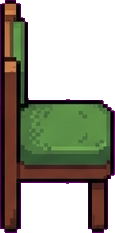
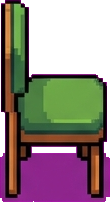
feat(office): fix chair inward facing, POI seat bindings, 2.5D legged furniture, decor props, and asset workflow guide

diff --git a/apps/web/src/features/office/components/officeAssetRegistry.ts b/apps/web/src/features/office/components/officeAssetRegistry.ts
@@ -19,6 +19,9 @@ import chairCafeSide from "../../../../../../assets/game/processed/core-furnitur
 import chairCafeDown from "../../../../../../assets/game/processed/core-furniture-c-v2/chair.cafe.down.png";
 import tvWall from "../../../../../../assets/game/processed/core-furniture-c-v2/tv.wall.png";
 import bookshelfMagazine from "../../../../../../assets/game/processed/core-furniture-c-v2/bookshelf.magazine.png";
+import lampFloor from "../../../../../../assets/game/processed/core-furniture-c-v2/lamp.floor.png";
+import artWall from "../../../../../../assets/game/processed/core-furniture-c-v2/art.wall.png";
+import plantPotted from "../../../../../../assets/game/processed/core-furniture-c-v2/plant.potted.png";
 import binWaste from "../../../../../../assets/game/processed/decor-mechanical-c-v1/bin.waste.png";
 import boxParcel from "../../../../../../assets/game/processed/decor-mechanical-c-v1/box.parcel.png";
 import clockWall from "../../../../../../assets/game/processed/decor-mechanical-c-v1/clock.wall.png";
@@ -106,6 +109,9 @@ const assetFiles: Record<string, string> = {
   "chair.cafe.down": chairCafeDown,
   "tv.wall": tvWall,
   "bookshelf.magazine": bookshelfMagazine,
+  "lamp.floor": lampFloor,
+  "art.wall": artWall,
+  "plant.potted": plantPotted,
   "pet-bed.round": petBed,
   "sofa.sectional": sectionalSofa,
   "stool.lounge": stoolLounge,

diff --git a/docs/art/PIXEL_ASSET_WORKFLOW_GUIDE.md b/docs/art/PIXEL_ASSET_WORKFLOW_GUIDE.md
@@ -1,0 +1,133 @@
+# 🎨 2.5D Pixel Art Furniture & Asset Workflow Guide
+
+This document serves as the official design specification and procedural guide for creating, generating, extracting, registering, and placing 2.5D pixel-art environment assets in the Office Canvas system.
+
+---
+
+## 📐 1. Grid & Asset Geometry Standard
+
+All environment assets are aligned to a **32px Integer Tile Grid**.
+
+### Geometry Properties
+- **`renderBox`**: Image rendering dimensions in tile units `{ width, height }`.
+- **`footprint`**: Collision box on the floor `{ width, depth }`.
+  > **Key Rule**: `footprint` represents floor contact area only. Tall objects (e.g. 1x3 server rack or 2x3 tall plant) have a small footprint on the floor (`1x1`), but a tall `renderBox` (`1x3`) so characters can walk behind them without pathing collision.
+- **`anchor`**: Positioning alignment:
+  - `"bottom-center"`: Used for chairs, plants, standing equipment. Transforms by `translate(-50%, -100%)`.
+  - `"center"`: Used for tables, desks, rugs, sectional sofas. Transforms by `translate(-50%, -50%)`.
+  - `"wall-top"`: Used for wall TVs, clocks, exit signs, wall extinguishers.
+
+---
+
+## 🎨 2. AI Image Prompting & Style Guide (Concept C - Warm Studio)
+
+When generating new 2.5D pixel art assets via `generate_image`, always adhere to these rules:
+
+### Visual Style Rules
+1. **2.5D Perspective with Legs & Shadows**:
+   - Tables and chairs must **NOT** look like flat slabs or 2D stickers.
+   - Prompts must explicitly request **"visible 4 wooden legs under table, 2.5D top-down perspective, under-table floor shadow, warm oak wood texture"**.
+2. **Color Palette**:
+   - Primary Wood: Warm Oak (#C89D66 / #B98258).
+   - Cushions / Fabrics: Forest Green (#395C44 / #4E7359).
+   - Metal / Tech: Dark Graphite (#2D493F / #1E2E28).
+3. **Background**:
+   - Uniform solid magenta background (`#FF00FF` / RGB `[255, 0, 255]`) for clean alpha keying.
+
+### Example Prompt Template
+```
+A clean 4x4 asset sheet of 2D top-down 16-bit pixel art office furniture for Concept C warm studio theme on a solid uniform magenta background (#FF00FF). Top-down 2.5D perspective. High quality pixel art with clean edges, warm wooden tones, visible wooden legs under tables, and subtle floor shadows.
+Row 1: A round wooden cafe table with 4 visible wooden legs (2x2 tiles), a low rectangular wooden coffee table with 4 legs (3x2 tiles).
+Row 2: Green cushioned wooden cafe chair facing up, side, down (1x2 tiles).
+Row 3: Wall mounted flatscreen TV (3x2 tiles), low magazine bookshelf (2x2 tiles), standing floor lamp (1x3 tiles).
+No cast shadows outside items, generous empty padding between items, crisp outlines, no text or grid lines.
+```
+
+---
+
+## 🛠 3. Extraction & Processing Pipeline
+
+Do not rely on naive fixed-cell slicing (which cuts objects spanning across cell boundaries). Use **Connected Blob Segmentation (`ndimage.label`)**:
+
+### Python Extraction Script Pattern
+```python
+import os, json
+from PIL import Image
+import numpy as np
+from scipy import ndimage
+
+img = Image.open("raw_generated_sheet.png").convert("RGBA")
+arr = np.array(img)
+
+# 1. Mask Chroma-Key Magenta Background
+r, g, b, a = arr[:,:,0], arr[:,:,1], arr[:,:,2], arr[:,:,3]
+bg_mask = (r > 165) & (b > 165) & (g < 125)
+arr[bg_mask, 3] = 0
+
+# 2. Connected Component Segmentation
+fg_mask = ~bg_mask
+labeled, num_features = ndimage.label(fg_mask)
+
+# 3. Crop Tight Bounding Box per Blob
+def save_tight_blob(blob_id, output_path):
+    mask = (labeled == blob_id)
+    ys, xs = np.where(mask)
+    min_x, max_x, min_y, max_y = np.min(xs), np.max(xs), np.min(ys), np.max(ys)
+    
+    blob_rgba = np.zeros_like(arr)
+    blob_rgba[mask] = arr[mask]
+    
+    cropped = Image.fromarray(blob_rgba).crop((min_x, min_y, max_x + 1, max_y + 1))
+    cropped.save(output_path)
+```
+
+---
+
+## 📦 4. Surface Slot & Tabletop Snap Rules
+
+To place items (coffee cups, laptops, coffee machines, papers) on top of desks or counters:
+
+1. **Define `slotSet` in `assets/game/manifests/office-assets.json`**:
+   ```json
+   "coffee-counter": {
+     "counter-left": { "x": -1, "y": 0, "surface": "counter-surface" },
+     "counter-right": { "x": 1, "y": 0, "surface": "counter-surface" }
+   }
+   ```
+   > **Note**: Surface slot `y` offset is relative to table center. Use `y: 0` so items rest flat on top of the counter surface instead of floating.
+
+2. **Declare Support in Child Asset**:
+   ```json
+   "machine.coffee": {
+     "renderBox": { "width": 1, "height": 2 },
+     "layer": "equipment",
+     "anchor": "bottom-center",
+     "supports": ["counter-surface"]
+   }
+   ```
+
+3. **Attach in Map Object (`office-c-v2.json`)**:
+   ```json
+   { "id": "pantry-coffee-machine", "asset": "machine.coffee", "parentId": "coffee-counter", "slot": "counter-right", "layer": "equipment", "anchor": "bottom-center" }
+   ```
+
+---
+
+## 📋 5. Registration Checklist
+
+When adding new furniture or decor assets, update these 4 files in sequence:
+
+1. **`assets/game/manifests/office-furniture-c-v2.json`**: Add cell IDs to pass `repo-check.mjs`.
+2. **`assets/game/manifests/office-assets.json`**: Register `renderBox`, `footprint`, `layer`, `anchor`, and `supports`.
+3. **`apps/web/src/features/office/components/officeAssetRegistry.ts`**: Import PNG file and add to `assetFiles` map.
+4. **`assets/game/maps/office-c-v2.json`**: Place map objects and set POI targets.
+
+---
+
+## ⚙ 6. Pre-Commit Verification Gate
+
+Always validate before committing:
+```bash
+npm run check
+```
+This runs repository checks, geometry overlap checks, pathing route safety checks, TypeScript typechecking, Vitest tests, and Vite build.
